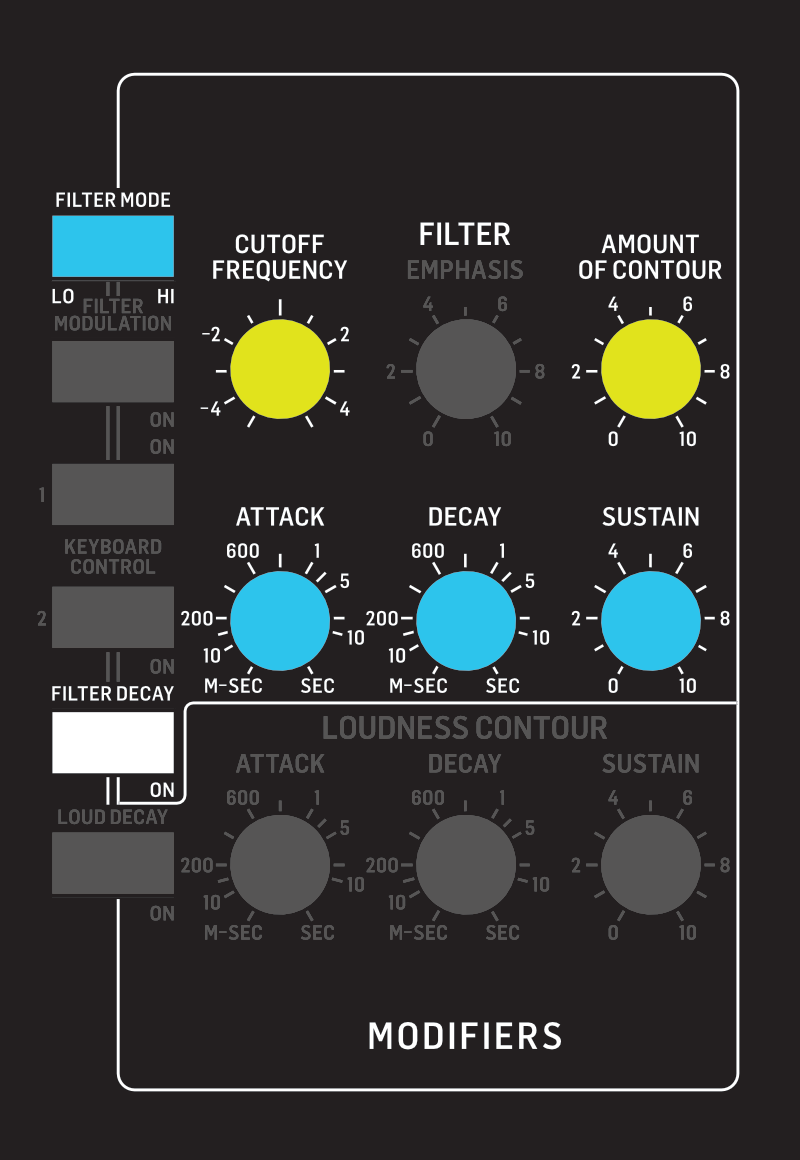
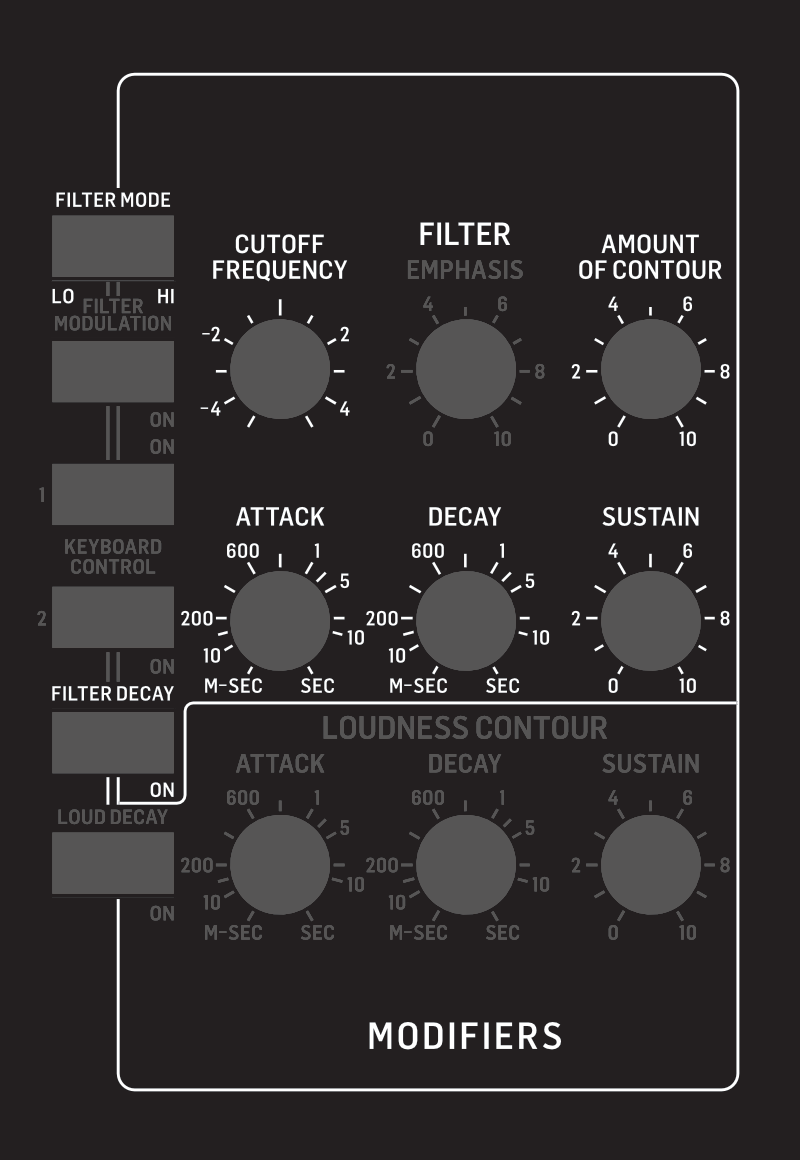
v0.9.57 — Kiosk: coloured knob circles, CSS colour variables

diff --git a/data/configs.js b/data/configs.js
@@ -1,6 +1,6 @@
 const CONFIGS = [
-  { name: "1", label: "Default",  dtpConfig: true, version: 1, a: 0.423, d: 0.504, s: 0.498, r: 0.5, floor: 0, scale: 1, loudDecay: false, drawReleaseWhenZero: false, showContour: true, frequencyMode: false, hpMode: false, keyboardControl: false, showClipped: false, linearTime: true, analogueCurve: false, textbookAdsr: false, tbSustainDotted: true, tbSustainCollapse: false, tbShowModelDSustain: false, showEffectiveTimes: false, showStatedTimes: false, showEffectiveLines: false, showStatedLines: false, showOuterLine: true, meterWidth: 40, meterStrokeWidth: 7, tbSustainGapMax: 15, linearTimeScale: 6, curveAmount: 40, audioEnabled: true, tapMode: "tap200", tapCustomMs: 200, noteMode: "noteA4Btn", noteCustomHz: 440, transitionSec: 1, activeTransBtn: "trans1Btn", liveAnimate: "live", lineColor: "#ffffff", bgColor: "#00ff00", attackColor: "#ff6b6b", decayColor: "#5fa8ff", releaseColor: "#5fa8ff", meterFillColor: "#00ff00", meterGlow: true, meterGlowRadius: 5, meterScanlinesVisible: true, blobGlowEnabled: true, blobGlowRadius: 8, keepTapMarker: true, meterFillColorFilter: "#00ffff", contourLineColor: "#ffff00", lineWidth: 14, innerLineWidth: 6, labelSize: 40, consoleScale: 0.7, activePresetIndex: 0, presetDirtyState: "dirty", vbWidth: 1200, vbHeight: 625, h1Scale: 1.0, h2Scale: 1.0, graphLeft: 220, dropLineEffectiveOffset: 15, dropLineStatedOffset: 55, timelineZoom3x: false, kioskOpen: true },
-  { name: "2", label: "Config 2", dtpConfig: true, version: 1, a: 0.423, d: 0.504, s: 0.498, r: 0.5, floor: 0, scale: 1, loudDecay: false, drawReleaseWhenZero: false, showContour: true, frequencyMode: false, hpMode: false, keyboardControl: false, showClipped: false, linearTime: true, analogueCurve: false, textbookAdsr: false, tbSustainDotted: true, tbSustainCollapse: false, tbShowModelDSustain: false, showEffectiveTimes: false, showStatedTimes: false, showEffectiveLines: false, showStatedLines: false, showOuterLine: true, meterWidth: 40, meterStrokeWidth: 7, tbSustainGapMax: 15, linearTimeScale: 6, curveAmount: 40, audioEnabled: true, tapMode: "tap200", tapCustomMs: 200, noteMode: "noteA4Btn", noteCustomHz: 440, transitionSec: 1, activeTransBtn: "trans1Btn", liveAnimate: "live", lineColor: "#ffffff", bgColor: "#00ff00", attackColor: "#ff6b6b", decayColor: "#5fa8ff", releaseColor: "#5fa8ff", meterFillColor: "#00ff00", meterGlow: true, meterGlowRadius: 5, meterScanlinesVisible: true, blobGlowEnabled: true, blobGlowRadius: 8, keepTapMarker: true, meterFillColorFilter: "#00ffff", contourLineColor: "#ffff00", lineWidth: 14, innerLineWidth: 6, labelSize: 40, consoleScale: 0.7, activePresetIndex: 0, presetDirtyState: "dirty", vbWidth: 1200, vbHeight: 625, h1Scale: 1.0, h2Scale: 1.0, graphLeft: 220, dropLineEffectiveOffset: 15, dropLineStatedOffset: 55, timelineZoom3x: false, kioskOpen: false },
-  { name: "3", label: "Config 3", dtpConfig: true, version: 1, a: 0.423, d: 0.504, s: 0.498, r: 0.5, floor: 0, scale: 1, loudDecay: false, drawReleaseWhenZero: false, showContour: true, frequencyMode: false, hpMode: false, keyboardControl: false, showClipped: false, linearTime: true, analogueCurve: false, textbookAdsr: false, tbSustainDotted: true, tbSustainCollapse: false, tbShowModelDSustain: false, showEffectiveTimes: false, showStatedTimes: false, showEffectiveLines: false, showStatedLines: false, showOuterLine: true, meterWidth: 40, meterStrokeWidth: 7, tbSustainGapMax: 15, linearTimeScale: 6, curveAmount: 40, audioEnabled: true, tapMode: "tap200", tapCustomMs: 200, noteMode: "noteA4Btn", noteCustomHz: 440, transitionSec: 1, activeTransBtn: "trans1Btn", liveAnimate: "live", lineColor: "#ffffff", bgColor: "#00ff00", attackColor: "#ff6b6b", decayColor: "#5fa8ff", releaseColor: "#5fa8ff", meterFillColor: "#00ff00", meterGlow: true, meterGlowRadius: 5, meterScanlinesVisible: true, blobGlowEnabled: true, blobGlowRadius: 8, keepTapMarker: true, meterFillColorFilter: "#00ffff", contourLineColor: "#ffff00", lineWidth: 14, innerLineWidth: 6, labelSize: 40, consoleScale: 0.7, activePresetIndex: 0, presetDirtyState: "dirty", vbWidth: 1200, vbHeight: 625, h1Scale: 1.0, h2Scale: 1.0, graphLeft: 220, dropLineEffectiveOffset: 15, dropLineStatedOffset: 55, timelineZoom3x: false, kioskOpen: false },
-  { name: "4", label: "Config 4", dtpConfig: true, version: 1, a: 0.423, d: 0.504, s: 0.498, r: 0.5, floor: 0, scale: 1, loudDecay: false, drawReleaseWhenZero: false, showContour: true, frequencyMode: false, hpMode: false, keyboardControl: false, showClipped: false, linearTime: true, analogueCurve: false, textbookAdsr: false, tbSustainDotted: true, tbSustainCollapse: false, tbShowModelDSustain: false, showEffectiveTimes: false, showStatedTimes: false, showEffectiveLines: false, showStatedLines: false, showOuterLine: true, meterWidth: 40, meterStrokeWidth: 7, tbSustainGapMax: 15, linearTimeScale: 6, curveAmount: 40, audioEnabled: true, tapMode: "tap200", tapCustomMs: 200, noteMode: "noteA4Btn", noteCustomHz: 440, transitionSec: 1, activeTransBtn: "trans1Btn", liveAnimate: "live", lineColor: "#ffffff", bgColor: "#00ff00", attackColor: "#ff6b6b", decayColor: "#5fa8ff", releaseColor: "#5fa8ff", meterFillColor: "#00ff00", meterGlow: true, meterGlowRadius: 5, meterScanlinesVisible: true, blobGlowEnabled: true, blobGlowRadius: 8, keepTapMarker: true, meterFillColorFilter: "#00ffff", contourLineColor: "#ffff00", lineWidth: 14, innerLineWidth: 6, labelSize: 40, activePresetIndex: 0, presetDirtyState: "dirty", vbWidth: 1200, vbHeight: 625, h1Scale: 1.0, h2Scale: 1.0, graphLeft: 220, dropLineEffectiveOffset: 15, dropLineStatedOffset: 55, timelineZoom3x: false, kioskOpen: false }
+  { name: "1", label: "Default",  dtpConfig: true, version: 1, a: 0.423, d: 0.504, s: 0.498, r: 0.5, floor: 0, scale: 1, loudDecay: false, drawReleaseWhenZero: false, showContour: true, frequencyMode: false, hpMode: false, keyboardControl: false, showClipped: false, linearTime: true, analogueCurve: false, textbookAdsr: false, tbSustainDotted: true, tbSustainCollapse: false, tbShowModelDSustain: false, showEffectiveTimes: false, showStatedTimes: false, showEffectiveLines: false, showStatedLines: false, showOuterLine: true, meterWidth: 40, meterStrokeWidth: 7, tbSustainGapMax: 15, linearTimeScale: 6, curveAmount: 40, audioEnabled: true, tapMode: "tap200", tapCustomMs: 200, noteMode: "noteA4Btn", noteCustomHz: 440, transitionSec: 1, activeTransBtn: "trans1Btn", liveAnimate: "live", lineColor: "#ffffff", bgColor: "#00ff00", loudnessAttackColor: "#ff0000", loudnessDecayColor: "#ff0000", loudnessReleaseColor: "#ff0000", filterAttackColor: "#00ffff", filterDecayColor: "#ffff00", filterReleaseColor: "#ffff00",meterFillColor: "#00ff00", meterGlow: true, meterGlowRadius: 5, meterScanlinesVisible: true, blobGlowEnabled: true, blobGlowRadius: 8, keepTapMarker: true, meterFillColorFilter: "#00ffff", contourLineColor: "#ffff00", lineWidth: 14, innerLineWidth: 6, labelSize: 40, consoleScale: 0.7, activePresetIndex: 0, presetDirtyState: "dirty", vbWidth: 1200, vbHeight: 625, h1Scale: 1.0, h2Scale: 1.0, graphLeft: 220, dropLineEffectiveOffset: 15, dropLineStatedOffset: 55, timelineZoom3x: false, kioskOpen: true },
+  { name: "2", label: "Config 2", dtpConfig: true, version: 1, a: 0.423, d: 0.504, s: 0.498, r: 0.5, floor: 0, scale: 1, loudDecay: false, drawReleaseWhenZero: false, showContour: true, frequencyMode: false, hpMode: false, keyboardControl: false, showClipped: false, linearTime: true, analogueCurve: false, textbookAdsr: false, tbSustainDotted: true, tbSustainCollapse: false, tbShowModelDSustain: false, showEffectiveTimes: false, showStatedTimes: false, showEffectiveLines: false, showStatedLines: false, showOuterLine: true, meterWidth: 40, meterStrokeWidth: 7, tbSustainGapMax: 15, linearTimeScale: 6, curveAmount: 40, audioEnabled: true, tapMode: "tap200", tapCustomMs: 200, noteMode: "noteA4Btn", noteCustomHz: 440, transitionSec: 1, activeTransBtn: "trans1Btn", liveAnimate: "live", lineColor: "#ffffff", bgColor: "#00ff00", loudnessAttackColor: "#ff0000", loudnessDecayColor: "#ff0000", loudnessReleaseColor: "#ff0000", filterAttackColor: "#00ffff", filterDecayColor: "#ffff00", filterReleaseColor: "#ffff00",meterFillColor: "#00ff00", meterGlow: true, meterGlowRadius: 5, meterScanlinesVisible: true, blobGlowEnabled: true, blobGlowRadius: 8, keepTapMarker: true, meterFillColorFilter: "#00ffff", contourLineColor: "#ffff00", lineWidth: 14, innerLineWidth: 6, labelSize: 40, consoleScale: 0.7, activePresetIndex: 0, presetDirtyState: "dirty", vbWidth: 1200, vbHeight: 625, h1Scale: 1.0, h2Scale: 1.0, graphLeft: 220, dropLineEffectiveOffset: 15, dropLineStatedOffset: 55, timelineZoom3x: false, kioskOpen: false },
+  { name: "3", label: "Config 3", dtpConfig: true, version: 1, a: 0.423, d: 0.504, s: 0.498, r: 0.5, floor: 0, scale: 1, loudDecay: false, drawReleaseWhenZero: false, showContour: true, frequencyMode: false, hpMode: false, keyboardControl: false, showClipped: false, linearTime: true, analogueCurve: false, textbookAdsr: false, tbSustainDotted: true, tbSustainCollapse: false, tbShowModelDSustain: false, showEffectiveTimes: false, showStatedTimes: false, showEffectiveLines: false, showStatedLines: false, showOuterLine: true, meterWidth: 40, meterStrokeWidth: 7, tbSustainGapMax: 15, linearTimeScale: 6, curveAmount: 40, audioEnabled: true, tapMode: "tap200", tapCustomMs: 200, noteMode: "noteA4Btn", noteCustomHz: 440, transitionSec: 1, activeTransBtn: "trans1Btn", liveAnimate: "live", lineColor: "#ffffff", bgColor: "#00ff00", loudnessAttackColor: "#ff0000", loudnessDecayColor: "#ff0000", loudnessReleaseColor: "#ff0000", filterAttackColor: "#00ffff", filterDecayColor: "#ffff00", filterReleaseColor: "#ffff00",meterFillColor: "#00ff00", meterGlow: true, meterGlowRadius: 5, meterScanlinesVisible: true, blobGlowEnabled: true, blobGlowRadius: 8, keepTapMarker: true, meterFillColorFilter: "#00ffff", contourLineColor: "#ffff00", lineWidth: 14, innerLineWidth: 6, labelSize: 40, consoleScale: 0.7, activePresetIndex: 0, presetDirtyState: "dirty", vbWidth: 1200, vbHeight: 625, h1Scale: 1.0, h2Scale: 1.0, graphLeft: 220, dropLineEffectiveOffset: 15, dropLineStatedOffset: 55, timelineZoom3x: false, kioskOpen: false },
+  { name: "4", label: "Config 4", dtpConfig: true, version: 1, a: 0.423, d: 0.504, s: 0.498, r: 0.5, floor: 0, scale: 1, loudDecay: false, drawReleaseWhenZero: false, showContour: true, frequencyMode: false, hpMode: false, keyboardControl: false, showClipped: false, linearTime: true, analogueCurve: false, textbookAdsr: false, tbSustainDotted: true, tbSustainCollapse: false, tbShowModelDSustain: false, showEffectiveTimes: false, showStatedTimes: false, showEffectiveLines: false, showStatedLines: false, showOuterLine: true, meterWidth: 40, meterStrokeWidth: 7, tbSustainGapMax: 15, linearTimeScale: 6, curveAmount: 40, audioEnabled: true, tapMode: "tap200", tapCustomMs: 200, noteMode: "noteA4Btn", noteCustomHz: 440, transitionSec: 1, activeTransBtn: "trans1Btn", liveAnimate: "live", lineColor: "#ffffff", bgColor: "#00ff00", loudnessAttackColor: "#ff0000", loudnessDecayColor: "#ff0000", loudnessReleaseColor: "#ff0000", filterAttackColor: "#00ffff", filterDecayColor: "#ffff00", filterReleaseColor: "#ffff00",meterFillColor: "#00ff00", meterGlow: true, meterGlowRadius: 5, meterScanlinesVisible: true, blobGlowEnabled: true, blobGlowRadius: 8, keepTapMarker: true, meterFillColorFilter: "#00ffff", contourLineColor: "#ffff00", lineWidth: 14, innerLineWidth: 6, labelSize: 40, activePresetIndex: 0, presetDirtyState: "dirty", vbWidth: 1200, vbHeight: 625, h1Scale: 1.0, h2Scale: 1.0, graphLeft: 220, dropLineEffectiveOffset: 15, dropLineStatedOffset: 55, timelineZoom3x: false, kioskOpen: false }
 ];

diff --git a/index.html b/index.html
@@ -213,7 +213,6 @@
         <div>
           <div id="loudDecayRow" class="row"><label><input id="loudDecay" type="checkbox"> <span id="loudDecayLabel">Loud Decay</span> (D)</label></div>
           <div class="row"><label><input id="drawReleaseWhenZero" type="checkbox"> Show Zero Release (R)</label></div>
-          <div class="row"><label><input id="showBounds" type="checkbox"> Show Max Min Lines (,)</label></div>
           <div class="row"><label><input id="showContour" type="checkbox" checked> Show Contour Top And Bottom (.)</label></div>
           <div class="row"><label><input id="frequencyMode" type="checkbox"> Filter Mode (F)</label></div>
           <div class="row"><label><input id="hpMode" type="checkbox"> LP/HP Mode (M)</label></div>
@@ -278,9 +277,11 @@
           <div class="row"><label><input id="meterGlow" type="checkbox" checked> Meter Glow</label><label>Glow R <input id="meterGlowRadius" type="number" min="0" max="60" step="1" value="5"></label><label><input id="meterScanlinesVisible" type="checkbox" checked> Scanlines</label></div>
           <div class="row"><label><input id="blobGlowEnabled" type="checkbox" checked> Blob Glow</label><label>Blob R <input id="blobGlowRadius" type="number" min="0" max="30" step="1" value="8"></label></div>
           <div class="row"><label>Meter L <input id="meterFillColor" type="color" value="#00ff00"></label><label>Meter F <input id="meterFillColorFilter" type="color" value="#00ffff"></label><label>Stated <input id="timeAxisStatedColor" type="color" value="#aaaaaa"></label><label>Contour <input id="contourLineColor" type="color" value="#ffff00"></label></div>
+          <div class="row"><label>L.Attack <input id="loudnessAttackColor" type="color" value="#ff0000"></label><label>L.Decay <input id="loudnessDecayColor" type="color" value="#ff0000"></label><label>L.Release <input id="loudnessReleaseColor" type="color" value="#ff0000"></label></div>
+          <div class="row"><label>F.Attack <input id="filterAttackColor" type="color" value="#00ffff"></label><label>F.Decay <input id="filterDecayColor" type="color" value="#ffff00"></label><label>F.Release <input id="filterReleaseColor" type="color" value="#ffff00"></label></div>
         </div>
       </div>
-      <div class="row"><label>BG <input id="bgColor" type="color" value="#00ff00"></label><label>A <input id="attackColor" type="color" value="#ff6b6b"></label><label>D <input id="decayColor" type="color" value="#5fa8ff"></label><label>R <input id="releaseColor" type="color" value="#5fa8ff"></label></div>
+      <div class="row"><label>BG <input id="bgColor" type="color" value="#00ff00"></label></div>
       <hr style="border-color:rgba(255,255,255,.25)">
       <div class="row" style="gap:10px;align-items:center;flex-wrap:wrap">
         <label><input id="audioEnabled" type="checkbox" checked> A — Audio</label>
@@ -344,7 +345,6 @@
           <tr><td style="padding:3px 14px 3px 0;font-family:monospace;font-size:13px;font-weight:800">D</td><td style="padding:3px 0;font-size:13px;font-weight:700">Loud/Filter Decay</td></tr>
           <tr><td style="padding:3px 14px 3px 0;font-family:monospace;font-size:13px;font-weight:800">R</td><td style="padding:3px 0;font-size:13px;font-weight:700">Draw Release When Zero</td></tr>
           <tr><td style="padding:3px 14px 3px 0;font-family:monospace;font-size:13px;font-weight:800">Z</td><td style="padding:3px 0;font-size:13px;font-weight:700">Timeline Zoom x3</td></tr>
-          <tr><td style="padding:3px 14px 3px 0;font-family:monospace;font-size:13px;font-weight:800">,</td><td style="padding:3px 0;font-size:13px;font-weight:700">Show Max Min Lines</td></tr>
           <tr><td style="padding:3px 14px 3px 0;font-family:monospace;font-size:13px;font-weight:800">.</td><td style="padding:3px 0;font-size:13px;font-weight:700">Show Contour Top And Bottom</td></tr>
           <tr><td style="padding:3px 14px 3px 0;font-family:monospace;font-size:13px;font-weight:800">F</td><td style="padding:3px 0;font-size:13px;font-weight:700">Filter Mode</td></tr>
           <tr><td style="padding:3px 14px 3px 0;font-family:monospace;font-size:13px;font-weight:800">M</td><td style="padding:3px 0;font-size:13px;font-weight:700">LP/HP Mode</td></tr>
@@ -501,7 +501,7 @@ setMeterLevel(state.dotLevel);
 logEvent('INIT', {
   a: state.a, d: state.d, s: state.s, r: state.r, floor: state.floor, scale: state.scale,
   loudDecay: $('loudDecay').checked, drawReleaseWhenZero: $('drawReleaseWhenZero').checked,
-  showBounds: $('showBounds').checked, showContour: $('showContour').checked,
+  showContour: $('showContour').checked,
   frequencyMode: $('frequencyMode').checked, hpMode: $('hpMode').checked,
   keyboardControl: $('keyboardControl').checked, showClipped: $('showClipped').checked,
   linearTime: $('linearTime').checked, analogueCurve: $('analogueCurve').checked,

diff --git a/js/cue-list.js b/js/cue-list.js
@@ -129,7 +129,7 @@ function parseCueList(text) {
     }
 
     // set <checkbox-param> on/off — single regex for remaining boolean params
-    const setBoolMatch = line.match(/^set\s+(filter-decay|hp-mode|mimic-sustain|analogue|linear-time|zoom-time|textbook|zero-release|show-clipped)\s+(on|off)$/i);
+    const setBoolMatch = line.match(/^set\s+(filter-decay|hp-mode|mimic-sustain|analogue|linear-time|zoom-time|textbook|zero-release|show-clipped|show-effective-times|show-stated-times|show-effective-lines|show-stated-lines|show-contour|tb-sustain-dotted|tb-sustain-collapse|tb-model-d-sustain)\s+(on|off)$/i);
     if (setBoolMatch) {
       result.push({ type: 'set', param: setBoolMatch[1].toLowerCase(), value: setBoolMatch[2].toLowerCase() === 'on' });
       continue;
@@ -293,6 +293,46 @@ function executeEvent(event) {
       case 'show-clipped':
         $('showClipped').checked = event.value;
         $('showClipped').dispatchEvent(new Event('change'));
+        render();
+        break;
+      case 'show-effective-times':
+        $('showEffectiveTimes').checked = event.value;
+        $('showEffectiveTimes').dispatchEvent(new Event('change'));
+        render();
+        break;
+      case 'show-stated-times':
+        $('showStatedTimes').checked = event.value;
+        $('showStatedTimes').dispatchEvent(new Event('change'));
+        render();
+        break;
+      case 'show-effective-lines':
+        $('showEffectiveLines').checked = event.value;
+        $('showEffectiveLines').dispatchEvent(new Event('change'));
+        render();
+        break;
+      case 'show-stated-lines':
+        $('showStatedLines').checked = event.value;
+        $('showStatedLines').dispatchEvent(new Event('change'));
+        render();
+        break;
+      case 'show-contour':
+        $('showContour').checked = event.value;
+        $('showContour').dispatchEvent(new Event('change'));
+        render();
+        break;
+      case 'tb-sustain-dotted':
+        $('tbSustainDotted').checked = event.value;
+        $('tbSustainDotted').dispatchEvent(new Event('change'));
+        render();
+        break;
+      case 'tb-sustain-collapse':
+        $('tbSustainCollapse').checked = event.value;
+        $('tbSustainCollapse').dispatchEvent(new Event('change'));
+        render();
+        break;
+      case 'tb-model-d-sustain':
+        $('tbShowModelDSustain').checked = event.value;
+        $('tbShowModelDSustain').dispatchEvent(new Event('change'));
         render();
         break;
       case 'cutoff':
@@ -545,6 +585,14 @@ function generateStateSnapshot() {
   lines.push(`set textbook ${$('textbookAdsr').checked ? 'on' : 'off'}`);
   lines.push(`set zero-release ${$('drawReleaseWhenZero').checked ? 'on' : 'off'}`);
   lines.push(`set show-clipped ${$('showClipped').checked ? 'on' : 'off'}`);
+  lines.push(`set show-effective-times ${$('showEffectiveTimes').checked ? 'on' : 'off'}`);
+  lines.push(`set show-stated-times ${$('showStatedTimes').checked ? 'on' : 'off'}`);
+  lines.push(`set show-effective-lines ${$('showEffectiveLines').checked ? 'on' : 'off'}`);
+  lines.push(`set show-stated-lines ${$('showStatedLines').checked ? 'on' : 'off'}`);
+  lines.push(`set show-contour ${$('showContour').checked ? 'on' : 'off'}`);
+  lines.push(`set tb-sustain-dotted ${$('tbSustainDotted').checked ? 'on' : 'off'}`);
+  lines.push(`set tb-sustain-collapse ${$('tbSustainCollapse').checked ? 'on' : 'off'}`);
+  lines.push(`set tb-model-d-sustain ${$('tbShowModelDSustain').checked ? 'on' : 'off'}`);
   return lines.join('\n');
 }
 

diff --git a/js/ui-controls.js b/js/ui-controls.js
@@ -277,10 +277,10 @@ function initUIControls(){
   });
 
   // Checkbox render-only listeners
-  ['loudDecay','keyboardControl','drawReleaseWhenZero','showBounds','showContour','showEffectiveTimes','showStatedTimes','showEffectiveLines','showStatedLines','frequencyMode','hpMode','showClipped','linearTime','textbookAdsr','tbSustainDotted','tbSustainCollapse','tbShowModelDSustain','showOuterLine'].forEach(id=>$(id).addEventListener('change',render));
+  ['loudDecay','keyboardControl','drawReleaseWhenZero','showContour','showEffectiveTimes','showStatedTimes','showEffectiveLines','showStatedLines','frequencyMode','hpMode','showClipped','linearTime','textbookAdsr','tbSustainDotted','tbSustainCollapse','tbShowModelDSustain','showOuterLine'].forEach(id=>$(id).addEventListener('change',render));
 
   // Checkbox debug log listeners
-  ['loudDecay','keyboardControl','drawReleaseWhenZero','showBounds','showContour','showEffectiveTimes','showStatedTimes','showEffectiveLines','showStatedLines','frequencyMode','hpMode','showClipped','linearTime','textbookAdsr','tbSustainDotted','tbSustainCollapse','tbShowModelDSustain','showOuterLine'].forEach(id=>{ const el=$(id); if(el) el.addEventListener('change', () => {
+  ['loudDecay','keyboardControl','drawReleaseWhenZero','showContour','showEffectiveTimes','showStatedTimes','showEffectiveLines','showStatedLines','frequencyMode','hpMode','showClipped','linearTime','textbookAdsr','tbSustainDotted','tbSustainCollapse','tbShowModelDSustain','showOuterLine'].forEach(id=>{ const el=$(id); if(el) el.addEventListener('change', () => {
     const chk = id2 => { const e2=$(id2); return e2 ? e2.checked : undefined; };
     logEvent('CHECKBOX', {
       id, checked: el.checked,
@@ -328,9 +328,9 @@ function initUIControls(){
   $('meterFillColorFilter').addEventListener('input',e=>document.documentElement.style.setProperty('--meterFillFilter', e.target.value));
   $('timeAxisStatedColor').addEventListener('input',e=>document.documentElement.style.setProperty('--timeAxisStatedColor', e.target.value));
   $('contourLineColor').addEventListener('input',e=>{ document.documentElement.style.setProperty('--contourLineColor', e.target.value); render(); });
-  $('attackColor').addEventListener('input',e=>document.documentElement.style.setProperty('--attackColor', e.target.value));
-  $('decayColor').addEventListener('input',e=>document.documentElement.style.setProperty('--decayColor', e.target.value));
-  $('releaseColor').addEventListener('input',e=>document.documentElement.style.setProperty('--releaseColor', e.target.value));
+  ['loudnessAttackColor','loudnessDecayColor','loudnessReleaseColor','filterAttackColor','filterDecayColor','filterReleaseColor'].forEach(id => {
+    const el = $(id); if(el) el.addEventListener('input', render);
+  });
 
   // Line widths / label sizes
   $('lineWidth').addEventListener('input',e=>{ const inp=e.target,c=Math.min(30,Math.max(4,isNaN(parseInt(inp.value))?14:parseInt(inp.value))); inp.value=c; document.documentElement.style.setProperty('--lineWidth',c); syncRadii(); });

diff --git a/js/configs-logic.js b/js/configs-logic.js
@@ -6,7 +6,6 @@ function buildConfigSnapshot(){
     a: state.a, d: state.d, s: state.s, r: state.r, floor: state.floor, scale: state.scale,
     loudDecay: $('loudDecay').checked,
     drawReleaseWhenZero: $('drawReleaseWhenZero').checked,
-    showBounds: $('showBounds').checked,
     showContour: $('showContour').checked,
     frequencyMode: $('frequencyMode').checked,
     hpMode: $('hpMode').checked,
@@ -41,9 +40,12 @@ function buildConfigSnapshot(){
     liveAnimate: (document.querySelector('input[name="mode"]:checked') || {}).value || 'live',
     lineColor: $('lineColor').value,
     bgColor: $('bgColor').value,
-    attackColor: $('attackColor').value,
-    decayColor: $('decayColor').value,
-    releaseColor: $('releaseColor').value,
+    loudnessAttackColor: $('loudnessAttackColor').value,
+    loudnessDecayColor: $('loudnessDecayColor').value,
+    loudnessReleaseColor: $('loudnessReleaseColor').value,
+    filterAttackColor: $('filterAttackColor').value,
+    filterDecayColor: $('filterDecayColor').value,
+    filterReleaseColor: $('filterReleaseColor').value,
     meterFillColor: $('meterFillColor').value,
     meterFillColorFilter: $('meterFillColorFilter').value,
     timeAxisStatedColor: $('timeAxisStatedColor').value,
@@ -78,7 +80,7 @@ function loadConfigObject(cfg){
   state.target.tbSustainGap = state.tbSustainGap;
 
   // Checkboxes
-  ['loudDecay','drawReleaseWhenZero','showBounds','showContour','showEffectiveTimes','showStatedTimes','showEffectiveLines','showStatedLines','frequencyMode','hpMode','keyboardControl','showClipped','linearTime','analogueCurve','textbookAdsr','tbSustainDotted','tbSustainCollapse','tbShowModelDSustain','showOuterLine','meterGlow','meterScanlinesVisible','blobGlowEnabled','keepTapMarker','timelineZoom3x'].forEach(id => {
+  ['loudDecay','drawReleaseWhenZero','showContour','showEffectiveTimes','showStatedTimes','showEffectiveLines','showStatedLines','frequencyMode','hpMode','keyboardControl','showClipped','linearTime','analogueCurve','textbookAdsr','tbSustainDotted','tbSustainCollapse','tbShowModelDSustain','showOuterLine','meterGlow','meterScanlinesVisible','blobGlowEnabled','keepTapMarker','timelineZoom3x'].forEach(id => {
     if($(id) && cfg[id] !== undefined) $(id).checked = cfg[id];
   });
   const restoredZoom = ($('timelineZoom3x') && $('timelineZoom3x').checked) ? 3 : 1;
@@ -118,7 +120,7 @@ function loadConfigObject(cfg){
   }
 
   // Colours (dispatch input to update CSS variables)
-  ['lineColor','bgColor','attackColor','decayColor','releaseColor','meterFillColor','meterFillColorFilter','timeAxisStatedColor','contourLineColor'].forEach(id => {
+  ['lineColor','bgColor','loudnessAttackColor','loudnessDecayColor','loudnessReleaseColor','filterAttackColor','filterDecayColor','filterReleaseColor','meterFillColor','meterFillColorFilter','timeAxisStatedColor','contourLineColor'].forEach(id => {
     if($(id) && cfg[id]){ $(id).value = cfg[id]; $(id).dispatchEvent(new Event('input')); }
   });
 

diff --git a/js/kiosk.js b/js/kiosk.js
@@ -66,7 +66,7 @@ function drawSwitch(ctx, x, y, on, color) {
   ctx.fill();
 }
 
-function drawKnobPointer(ctx, cx, cy, angleDeg) {
+function drawKnobPointer(ctx, cx, cy, angleDeg, color) {
   const rad = (angleDeg - 90) * Math.PI / 180;
   const offset = KNOB_RADIUS - POINTER_LENGTH; // = -11
 
@@ -89,7 +89,7 @@ function drawKnobPointer(ctx, cx, cy, angleDeg) {
   ctx.lineTo(notchX, notchY);
   ctx.lineTo(backRightX, backRightY);
   ctx.closePath();
-  ctx.fillStyle = 'white';
+  ctx.fillStyle = '#ffffff';
   ctx.fill();
 }
 
@@ -102,6 +102,30 @@ function drawKiosk(){
   const filterOn = $('frequencyMode') && $('frequencyMode').checked;
   const panelImg = filterOn ? panelImgFilter : panelImgLoudness;
   ctx.drawImage(panelImg, 0, 0, canvas.width, canvas.height);
+
+  const _cs = getComputedStyle(document.documentElement);
+  const loudnessColor     = _cs.getPropertyValue('--kioskLoudnessColor').trim()     || '#F20D0D';
+  const filterColor       = _cs.getPropertyValue('--kioskFilterColor').trim()       || '#0DCAF2';
+  const cutoffAmountColor = _cs.getPropertyValue('--kioskCutoffAmountColor').trim() || '#E5F20D';
+
+  function drawKnobCircle(x, y, color) {
+    ctx.beginPath();
+    ctx.arc(x, y, KNOB_RADIUS, 0, Math.PI * 2);
+    ctx.fillStyle = color;
+    ctx.fill();
+  }
+
+  if (!filterOn) {
+    drawKnobCircle(280, 864, loudnessColor);
+    drawKnobCircle(466, 864, loudnessColor);
+    drawKnobCircle(651, 864, loudnessColor);
+  } else {
+    drawKnobCircle(280, 618, filterColor);
+    drawKnobCircle(466, 618, filterColor);
+    drawKnobCircle(651, 618, filterColor);
+    drawKnobCircle(280, 371, cutoffAmountColor);
+    drawKnobCircle(651, 371, cutoffAmountColor);
+  }
 
   // Compute time-based eased angles for attack and decay
   const now = performance.now();

diff --git a/js/paths.js b/js/paths.js
@@ -264,12 +264,6 @@ function render(){
     if(bg){ const bbox=el.getBBox(); bg.setAttribute('x',bbox.x-4); bg.setAttribute('y',bbox.y-2); bg.setAttribute('width',bbox.width+8); bg.setAttribute('height',bbox.height+4); bg.setAttribute('fill','#ffffff'); bg.style.display=el.style.display; }
   }
 
-  // Bounds lines — fixed at absolute graph top/bottom, full SVG width
-  const showBounds = $('showBounds') && $('showBounds').checked;
-  const floorBound=$('floorBound'), ceilingBound=$('ceilingBound');
-  if(floorBound){ floorBound.style.display = showBounds ? '' : 'none'; }
-  if(ceilingBound){ ceilingBound.style.display = showBounds ? '' : 'none'; }
-
   // Meter box — fixed full graph height
   const meterBox=$('meterBox');
   if(meterBox){
@@ -385,6 +379,14 @@ function render(){
   if(loudDecayLabel) loudDecayLabel.textContent = freqMode ? 'Filter Decay' : 'Loud Decay';
   // Knob colours
   syncKnobColours(freqMode);
+  // A/D/R inner line colours — switch per mode
+  const _aEl = freqMode ? $('filterAttackColor')  : $('loudnessAttackColor');
+  const _dEl = freqMode ? $('filterDecayColor')   : $('loudnessDecayColor');
+  const _rEl = freqMode ? $('filterReleaseColor') : $('loudnessReleaseColor');
+  const _root = document.documentElement;
+  if(_aEl) _root.style.setProperty('--attackColor',  _aEl.value);
+  if(_dEl) _root.style.setProperty('--decayColor',   _dEl.value);
+  if(_rEl) _root.style.setProperty('--releaseColor', _rEl.value);
 
   // Keep resting meter fill in sync whenever no animation is running
   if(state.currentPhase === 'idle') hideDot();

diff --git a/css/styles.css b/css/styles.css
@@ -13,15 +13,24 @@
 :root{
   --bg:#00ff00;
   --fg:#ffffff;
+  --kioskLoudnessColor:#F20D0D;
+  --kioskFilterColor:#0DCAF2;
+  --kioskCutoffAmountColor:#E5F20D;
   --line:#ffffff;
   --lineWidth:14;
   --innerLineWidth:6;
   --labelSize:17;
   --h1Scale:1.0;
   --h2Scale:1.0;
-  --attackColor:#ff6b6b;
-  --decayColor:#5fa8ff;
-  --releaseColor:#5fa8ff;
+  --attackColor:#ff0000;
+  --decayColor:#ff0000;
+  --releaseColor:#ff0000;
+  --loudnessAttackColor:#ff0000;
+  --loudnessDecayColor:#ff0000;
+  --loudnessReleaseColor:#ff0000;
+  --filterAttackColor:#00ffff;
+  --filterDecayColor:#ffff00;
+  --filterReleaseColor:#ffff00;
   --meterFill:#00ff00;
   --boundsColor:#ffffff;
   --timeAxisEffectiveColor:#ffffff;

diff --git a/js/shortcuts.js b/js/shortcuts.js
@@ -62,7 +62,6 @@ function initShortcuts(){
     } else if(e.key === 'd' || e.key === 'D'){ toggleCheckbox('loudDecay');
     } else if(e.key === 'r' || e.key === 'R'){ toggleCheckbox('drawReleaseWhenZero');
     } else if(e.key === 'z' || e.key === 'Z'){ toggleCheckbox('timelineZoom3x');
-    } else if(e.key === ','){ toggleCheckbox('showBounds');
     } else if(e.key === '.'){ toggleCheckbox('showContour');
     } else if(e.key === ';'){ toggleCheckbox('showEffectiveTimes');
     } else if(e.key === ':'){ toggleCheckbox('showEffectiveLines');
